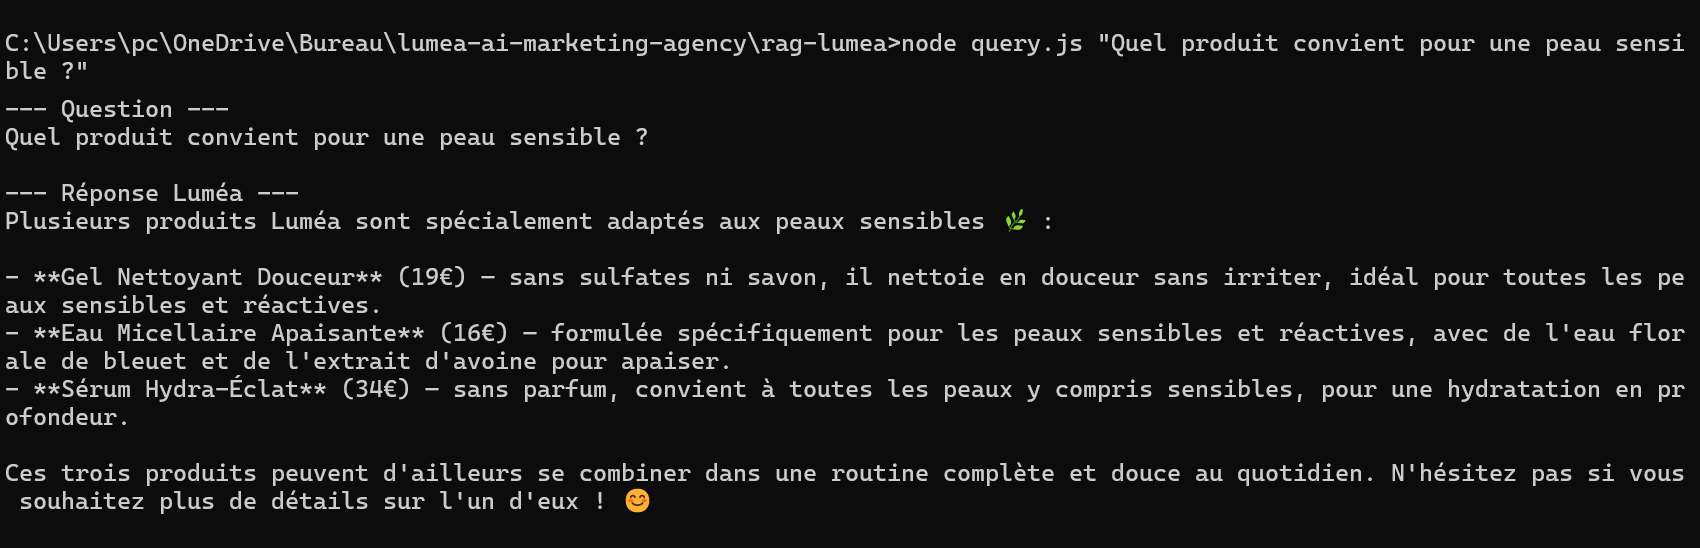
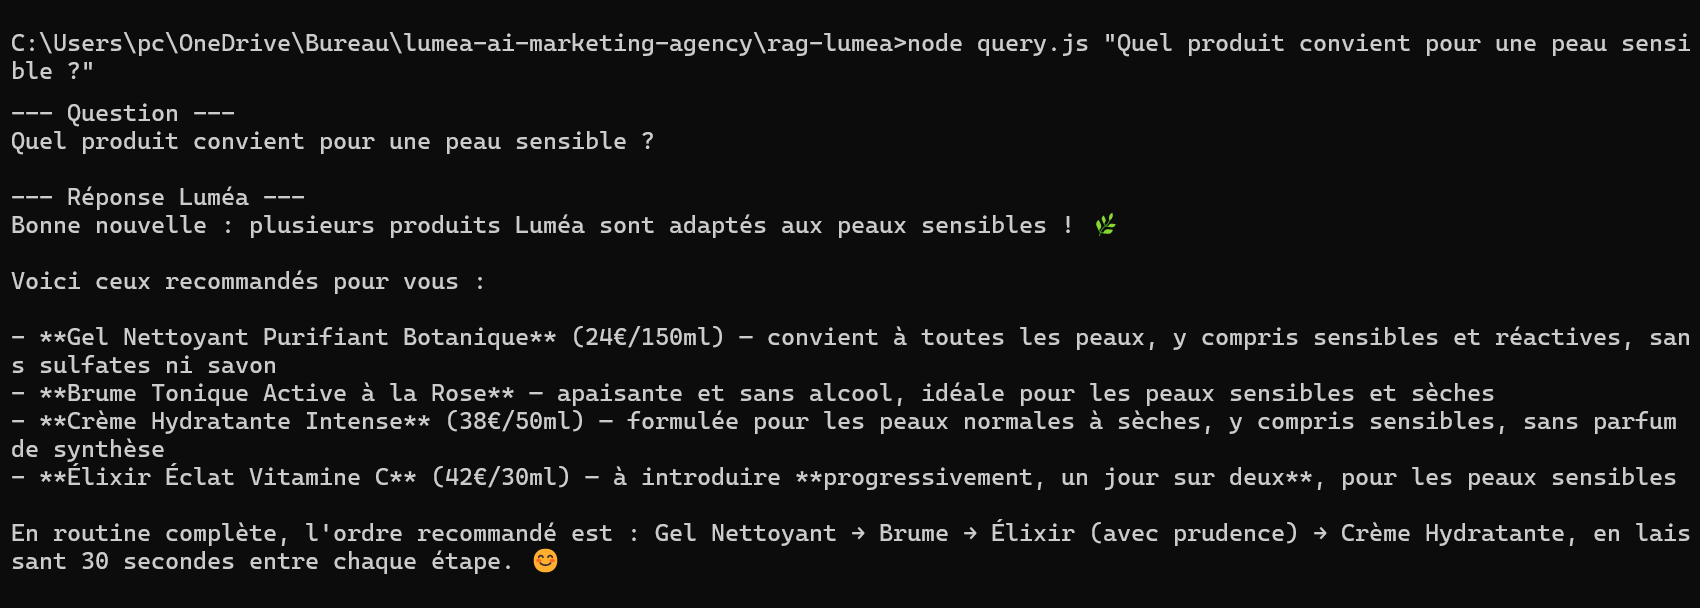
README : capture du chatbot RAG avec le nouveau catalogue

diff --git a/README.md b/README.md
@@ -75,6 +75,10 @@ Le modèle multilingue a donc été retenu : il place toujours un bon passage da
 
 *Le catalogue de la base de connaissances est le même que celui de la landing page : le chatbot ne peut conseiller que des produits réellement présentés sur le site.*
 
+![Le chatbot RAG répond à une question sur les peaux sensibles à partir des fiches produits](docs/demo-chatbot-rag.png)
+
+*Exemple : les produits cités, leurs prix, leurs formats et la précaution d'usage de l'Élixir proviennent tous des fiches de la base de connaissances.*
+
 ```
 cd rag-lumea
 npm install --legacy-peer-deps
